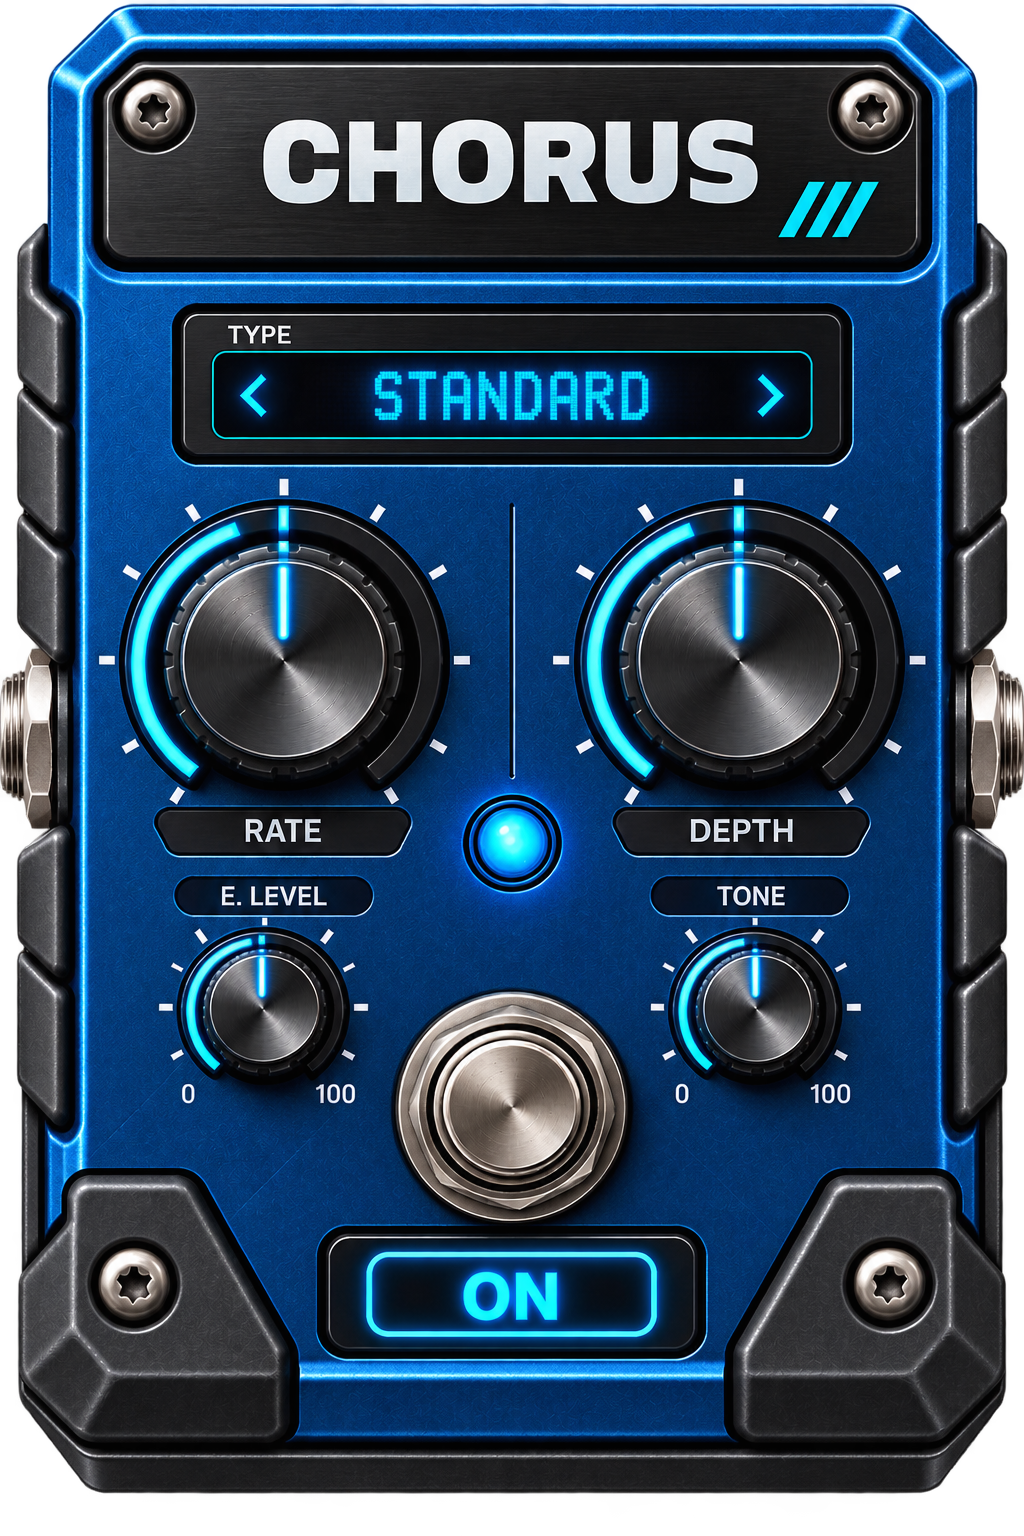
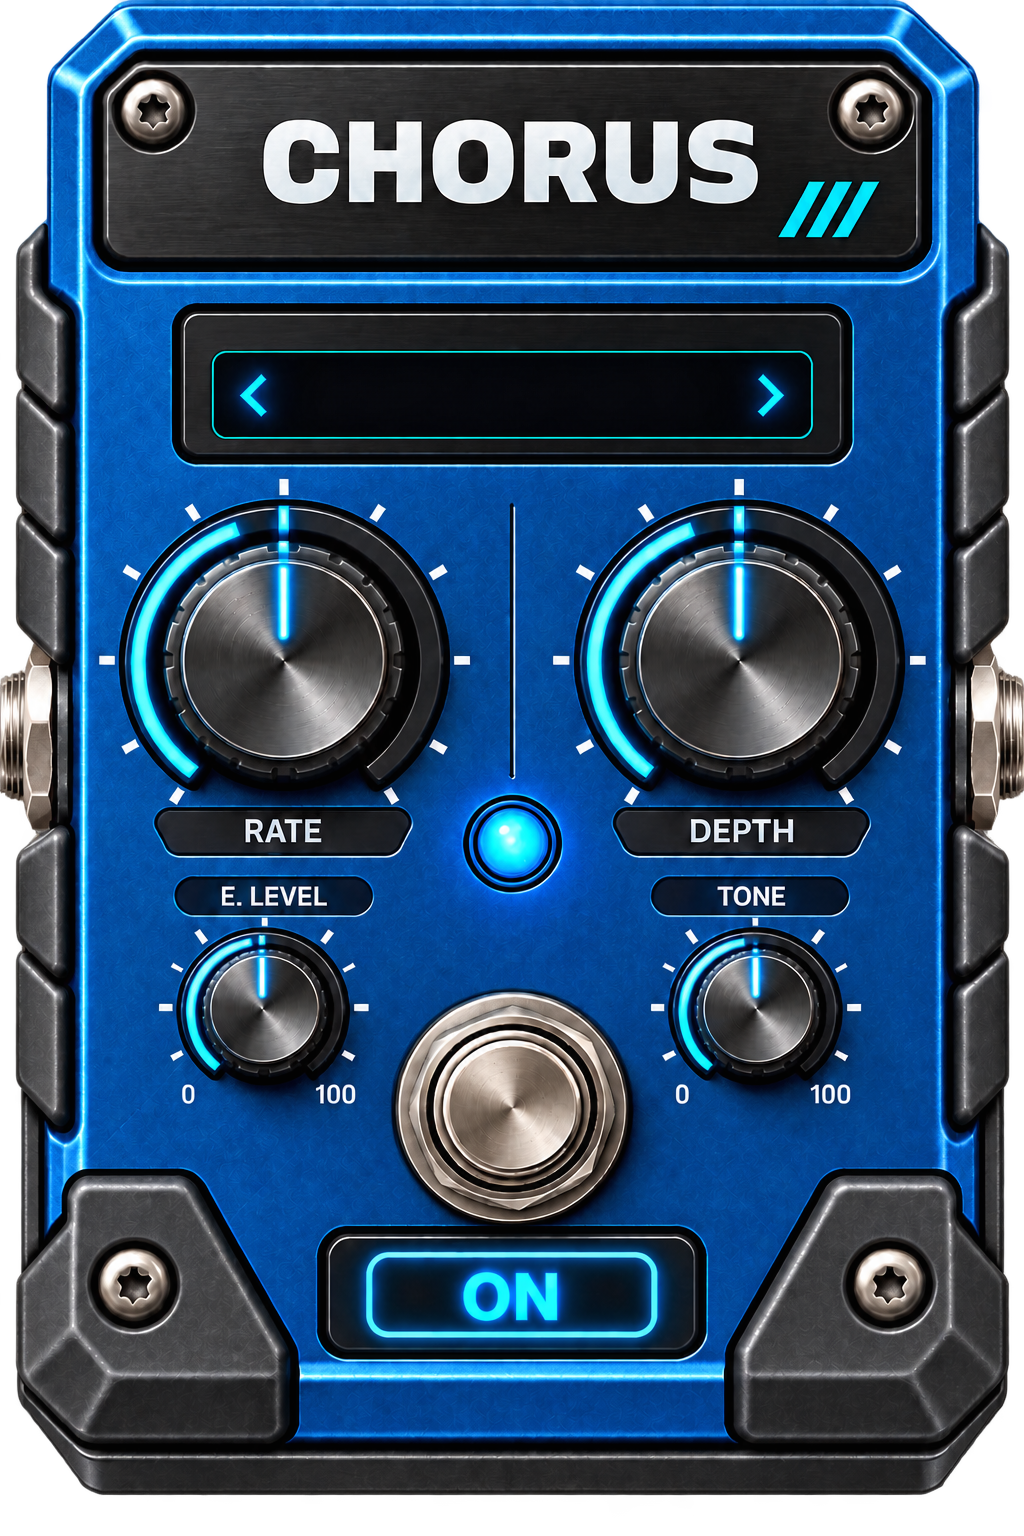
Complete modern Chorus editor

diff --git a/modernFloorBoard.cpp b/modernFloorBoard.cpp
@@ -834,9 +834,35 @@ modernFloorBoard::modernFloorBoard(QWidget *parent)
     effectEditorStack->addWidget(delayEditor);
 
     chorusEditor = new EffectEditorPanel("CHORUS");
-    chorusModeDisplay = chorusEditor->typeLabel();
-    chorusEditor->setRightPanelTitle("CHORUS MODE");
-    chorusEditor->setRightPanelWidget(createChorusCombo("Mode", "21"));
+    chorusEditor->typeLabel()->hide();
+    chorusModeBrowser = new EffectModelBrowser;
+    chorusModeBrowser->setAccentColor(QColor(
+        ModernTheme::activeEffectAccent("CHORUS")));
+    chorusEditor->setRightPanelTitle("CHORUS MODES");
+    chorusEditor->setModelBrowserWidget(chorusModeBrowser);
+    connect(chorusModeBrowser, &EffectModelBrowser::modelSelected,
+            this, &modernFloorBoard::chorusModeSelected);
+
+    QWidget *chorusModeControl = createChorusCombo("Mode", "21");
+    chorusModeControl->setParent(chorusEditor->parameterArea());
+    chorusModeControl->hide();
+    QStringList chorusModes;
+    if (chorusMode) {
+        for (int index = 0; index < chorusMode->count(); ++index)
+            chorusModes.append(chorusMode->itemText(index));
+    }
+    chorusModeBrowser->setModels(chorusModes);
+
+    chorusArtwork = new EffectArtworkWidget;
+    chorusArtwork->setArtwork(":/assets/effects/chorus.png");
+    QFont chorusDisplayFont;
+    chorusDisplayFont.setFamily("Menlo");
+    chorusDisplayFont.setBold(true);
+    chorusDisplayFont.setStretch(QFont::Condensed);
+    chorusArtwork->setTextOverlay(
+        "mode", QRectF(0.29, 0.229, 0.42, 0.057), QString(),
+        chorusDisplayFont, QColor("#35D8FF"), Qt::AlignCenter, 0.50);
+    chorusEditor->setArtworkWidget(chorusArtwork);
 
     QVBoxLayout *chorusParameterLayout =
         new QVBoxLayout(chorusEditor->parameterArea());
@@ -1627,12 +1653,7 @@ QWidget *modernFloorBoard::createChorusCombo(const QString &label,
         if (!rawOk)
             continue;
 
-        QString text = item.desc.isEmpty() ? item.name : item.desc;
-        if (address == "21") {
-            if (raw == 0x00) text = "MONO";
-            else if (raw == 0x01) text = "STEREO 1";
-            else if (raw == 0x02) text = "STEREO 2";
-        }
+        const QString text = item.desc.isEmpty() ? item.name : item.desc;
         combo->addItem(text, raw);
     }
 
@@ -3704,6 +3725,9 @@ void modernFloorBoard::updateChorusParameterControls(bool available)
     SysxIO *sysxIO = SysxIO::Instance();
     MidiTable *midiTable = MidiTable::Instance();
 
+    if (chorusModeBrowser)
+        chorusModeBrowser->setEnabled(available);
+
     if (chorusOnOff) {
         const QSignalBlocker blocker(chorusOnOff);
         chorusOnOff->setEnabled(available);
@@ -3730,10 +3754,16 @@ void modernFloorBoard::updateChorusParameterControls(bool available)
         combo->setCurrentIndex(combo->findData(raw));
     }
 
-    if (chorusModeDisplay) {
-        chorusModeDisplay->setText(
-            available && chorusMode && chorusMode->currentIndex() >= 0
-                ? chorusMode->currentText() : QString::fromUtf8("—"));
+    if (chorusModeBrowser) {
+        const QSignalBlocker blocker(chorusModeBrowser);
+        chorusModeBrowser->setCurrentIndex(
+            available && chorusMode ? chorusMode->currentIndex() : -1);
+    }
+    if (chorusArtwork) {
+        chorusArtwork->setTextOverlayText(
+            "mode", available && chorusMode
+                ? chorusMode->currentText().toUpper()
+                : QString());
     }
 
     for (ParameterBar *bar : chorusBars) {
@@ -3768,19 +3798,50 @@ void modernFloorBoard::setChorusValue(const QString &address, int value)
         QString("%1").arg(value, 2, 16, QChar('0')).toUpper());
 }
 
+void modernFloorBoard::setChorusMode(int index)
+{
+    if (!chorusMode || index < 0 || index >= chorusMode->count()
+        || !hasValidChorusBuffer())
+        return;
+
+    bool rawOk = false;
+    const int raw = chorusMode->itemData(index).toInt(&rawOk);
+    if (!rawOk)
+        return;
+
+    {
+        const QSignalBlocker blocker(chorusMode);
+        chorusMode->setCurrentIndex(index);
+    }
+    setChorusValue("21", raw);
+    if (chorusModeBrowser)
+        chorusModeBrowser->setCurrentIndex(index);
+    if (chorusArtwork)
+        chorusArtwork->setTextOverlayText(
+            "mode", chorusMode->itemText(index).toUpper());
+}
+
 void modernFloorBoard::chorusComboChanged(int index)
 {
     QComboBox *combo = qobject_cast<QComboBox *>(sender());
     if (!combo || index < 0)
         return;
 
+    if (combo == chorusMode) {
+        setChorusMode(index);
+        return;
+    }
+
     bool rawOk = false;
     const int raw = combo->itemData(index).toInt(&rawOk);
     if (!rawOk)
         return;
     setChorusValue(combo->property("address").toString(), raw);
-    if (combo == chorusMode && chorusModeDisplay)
-        chorusModeDisplay->setText(combo->itemText(index));
+}
+
+void modernFloorBoard::chorusModeSelected(int index)
+{
+    setChorusMode(index);
 }
 
 void modernFloorBoard::chorusBarChanged(int value)

diff --git a/modernFloorBoard.h b/modernFloorBoard.h
@@ -80,6 +80,7 @@ private slots:
     void delayBarChanged(int value);
     void delayToggleChanged();
     void chorusComboChanged(int index);
+    void chorusModeSelected(int index);
     void chorusBarChanged(int value);
     void toggleChorus();
     void eqComboChanged(int value);
@@ -137,6 +138,7 @@ private:
     QWidget *createChorusBar(const QString &label,
                              const QString &address);
     void setChorusValue(const QString &address, int value);
+    void setChorusMode(int index);
     void updateChorusParameterControls(bool available);
     void refreshChorus();
     bool hasValidEqBuffer() const;
@@ -251,6 +253,8 @@ private:
     EffectModelBrowser *oddsModelBrowser = nullptr;
     EffectArtworkWidget *delayArtwork = nullptr;
     EffectModelBrowser *delayModelBrowser = nullptr;
+    EffectArtworkWidget *chorusArtwork = nullptr;
+    EffectModelBrowser *chorusModeBrowser = nullptr;
     QString selectedEditor = "REVERB";
     QComboBox *reverbType = nullptr;
     QLabel *reverbTypeDisplay = nullptr;
@@ -279,7 +283,6 @@ private:
     QList<QComboBox *> delayCombos;
     QList<ParameterBar *> delayBars;
     QComboBox *chorusMode = nullptr;
-    QLabel *chorusModeDisplay = nullptr;
     ModernToggleSwitch *chorusOnOff = nullptr;
     QList<QComboBox *> chorusCombos;
     QList<ParameterBar *> chorusBars;
